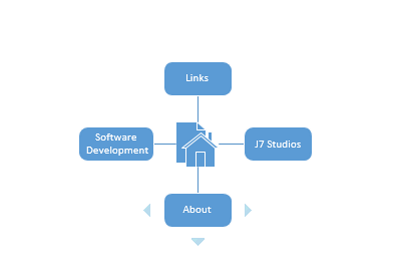
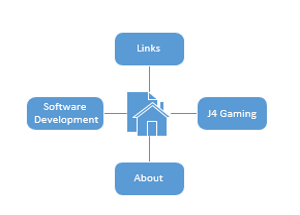
added content to links page, software page, change to j4 gaming.

Changed region(s): [[0.09, 0.1395, 0.9, 0.9209]]

diff --git a/Links.aspx.cs b/Links.aspx.cs
@@ -1,6 +1,7 @@
 using System;
 using System.Collections.Generic;
 using System.Linq;
+using System.Net;
 using System.Web;
 using System.Web.UI;
 using System.Web.UI.WebControls;
@@ -10,5 +11,26 @@ public partial class Links : System.Web.UI.Page
     protected void Page_Load(object sender, EventArgs e)
     {
 
+    }
+    protected void uxResumeDownloadButton_Click(object sender, EventArgs e)
+    {
+        try
+        {
+            string strURL = uxResumeTextbox.Text;
+            WebClient req = new WebClient();
+            HttpResponse response = HttpContext.Current.Response;
+            response.Clear();
+            response.ClearContent();
+            response.ClearHeaders();
+            response.Buffer = true;
+            response.AddHeader("", "attachment;filename=\"" + Server.MapPath(strURL) + "\"");
+            byte[] data = req.DownloadData(Server.MapPath(strURL));
+            response.BinaryWrite(data);
+            response.End();
+        }
+        catch (Exception ex)
+        {
+            ScriptManager.RegisterClientScriptBlock(this, this.GetType(), "alertMessage", ex.ToString(), true);
+        }
     }
 }

diff --git a/MasterPage.master.cs b/MasterPage.master.cs
@@ -20,7 +20,7 @@ public partial class MasterPage : System.Web.UI.MasterPage
     }
     protected void uxJ7StudiosButton_Click(object sender, EventArgs e)
     {
-        Response.Redirect("~/J7Studios.aspx");
+        Response.Redirect("~/J4Gaming.aspx");
     }
     protected void uxDeveloperButton_Click(object sender, EventArgs e)
     {

diff --git a/Home.aspx.cs b/Home.aspx.cs
@@ -17,7 +17,7 @@ public partial class Home : System.Web.UI.Page
     }
     protected void uxJ7StudiosHomeButton_Click(object sender, EventArgs e)
     {
-        Response.Redirect("~/J7Studios.aspx");
+        Response.Redirect("~/J4Gaming.aspx");
     }
     protected void uxDeveloperHomeButton_Click(object sender, EventArgs e)
     {
